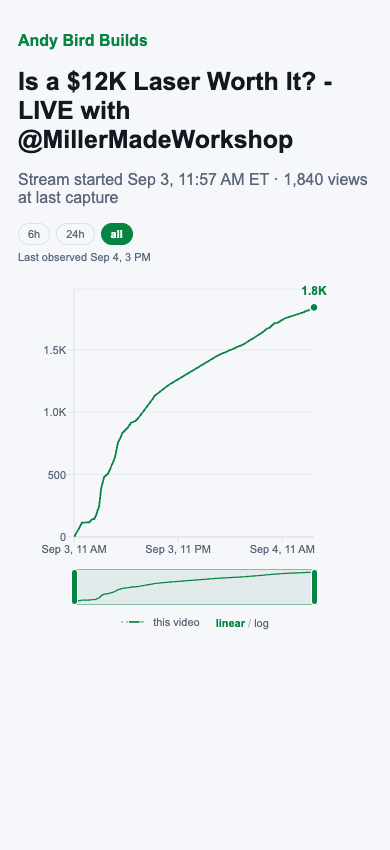
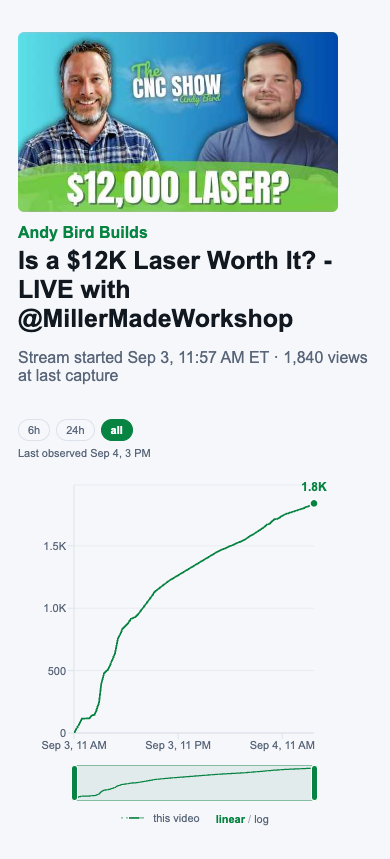
Show the existing video thumbnail in chart review previews

diff --git a/docs/audits/livestream-preview/entry.tsx b/docs/audits/livestream-preview/entry.tsx
@@ -1,12 +1,16 @@
 import React from 'react';
 import {createRoot} from 'react-dom/client';
 import {MarkerHoverProvider,VideoChart} from '../../../components/app/video-chart';
+import {Thumb} from '../../../components/app/thumb';
 import view from './view.json';
 const v:any=view;
 function Preview(){return <main style={{maxWidth:1150,margin:'32px auto',padding:'0 18px'}}>
+<style>{`.vp-head{display:flex;gap:16px;align-items:flex-start;margin-bottom:18px}.vp-th{width:200px;flex:none}.cs-thumb{aspect-ratio:16/9;overflow:hidden;border-radius:6px}.cs-thumb img{width:100%;height:100%;object-fit:cover}h1{margin:4px 0 12px}@media(max-width:719px){.vp-head{flex-direction:column;gap:12px}.vp-th{width:100%;max-width:320px}}`}</style>
+<div className="vp-head"><div className="vp-th"><Thumb src={v.thumbUrl} fallbackSrc={v.thumbFallbackUrl} alt="" loading="eager" fetchPriority="high"/></div><div style={{minWidth:0}}>
 <a style={{color:'var(--cs-accent)',fontWeight:600}}>{v.channelName}</a>
 <h1 style={{fontSize:25}}>{v.title}</h1>
 <p style={{color:'var(--cs-muted)'}}><span title={v.broadcastNotice}>Stream started</span> Sep 3, 11:57 AM ET · {v.views.toLocaleString()} views at last capture</p>
+</div></div>
 <MarkerHoverProvider><VideoChart publishedAt={v.chartOriginAt} actuals={v.actuals} series={v.series} curve={v.curve} marks={v.marks} score={null} comparison={v.comparison}/></MarkerHoverProvider>
 </main>}
 createRoot(document.getElementById('root')!).render(<Preview/>);
